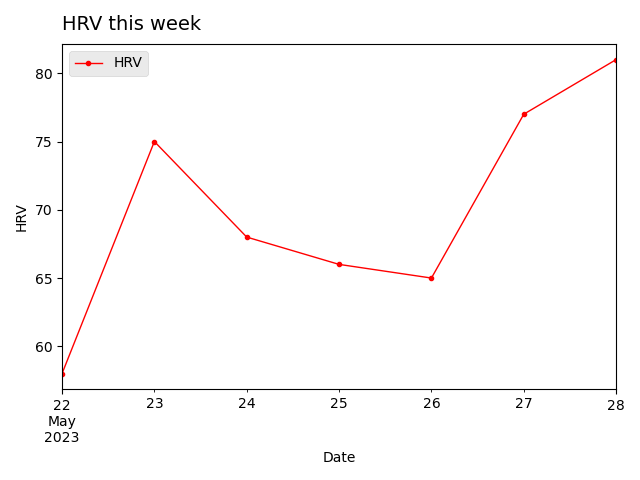
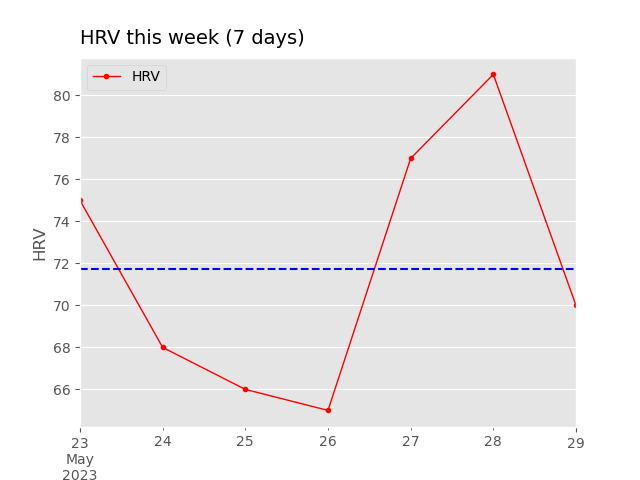
added more charts to snapshot page

diff --git a/templates/snapshot.html b/templates/snapshot.html
@@ -6,6 +6,15 @@
 			<div>
 				<img src={{url_for('static',filename="HRV this week.png")}} />
 			</div>
+			<div>
+				<img src={{url_for('static',filename="RHR this week.png")}} />
+			</div>
+			<div>
+				<img src={{url_for('static',filename="Training Load this week.png")}} />
+			</div>
+			<div>
+				<img src={{url_for('static',filename="Calories consumed this week.png")}} />
+			</div>
 		</div>
 		<h3> <a href="/"class="button">HOME</a></h3>
 	{% endblock %}

diff --git a/snapshot.py b/snapshot.py
@@ -13,8 +13,11 @@ def main():
 	df = load.to_df('trainingLog.csv')
 
 	df = filter_dates(df, pd.Timestamp.today() - timedelta(7), pd.Timestamp.today())
-	print(df)
-	basic_plot(df, 'HRV', 'red')
+
+	metrics = ['HRV', 'RHR', 'Training Load', 'Calories consumed']
+
+	for metric in metrics:
+		basic_plot(df, metric, 'red')
 
 	return
 
@@ -30,11 +33,16 @@ def filter_dates(df, start, end):
 def basic_plot(df, variable, color):
 	''' Plot single variable time series'''
 
-	df[variable].dropna().plot(marker='.', linewidth=1, color=color)
+	mean = df[variable].mean()
 
 	plt.style.use('ggplot')
 
-	plt.title(variable + ' this week', fontsize=14, pad=10, loc="left")
+	df[variable].dropna().plot(marker='.', linewidth=1, color=color)
+
+	plt.axhline(y=mean, color='b', linestyle='dashed')
+	#plt.annotate('Mean = ' + str(mean),xy=(i)
+
+	plt.title(variable + ' this week (7 days)', fontsize=14, pad=10, loc="left")
 	plt.xlabel('Date')
 	plt.ylabel(variable)
 
